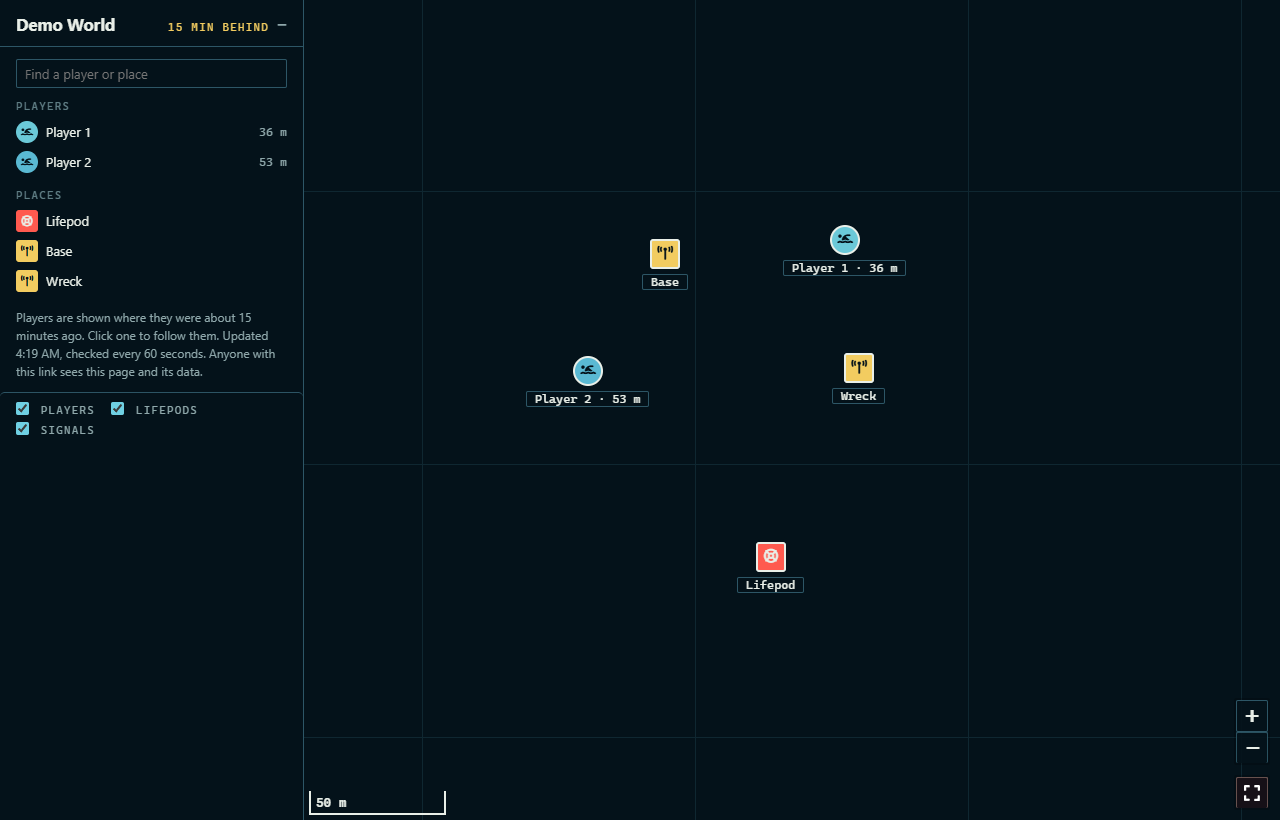
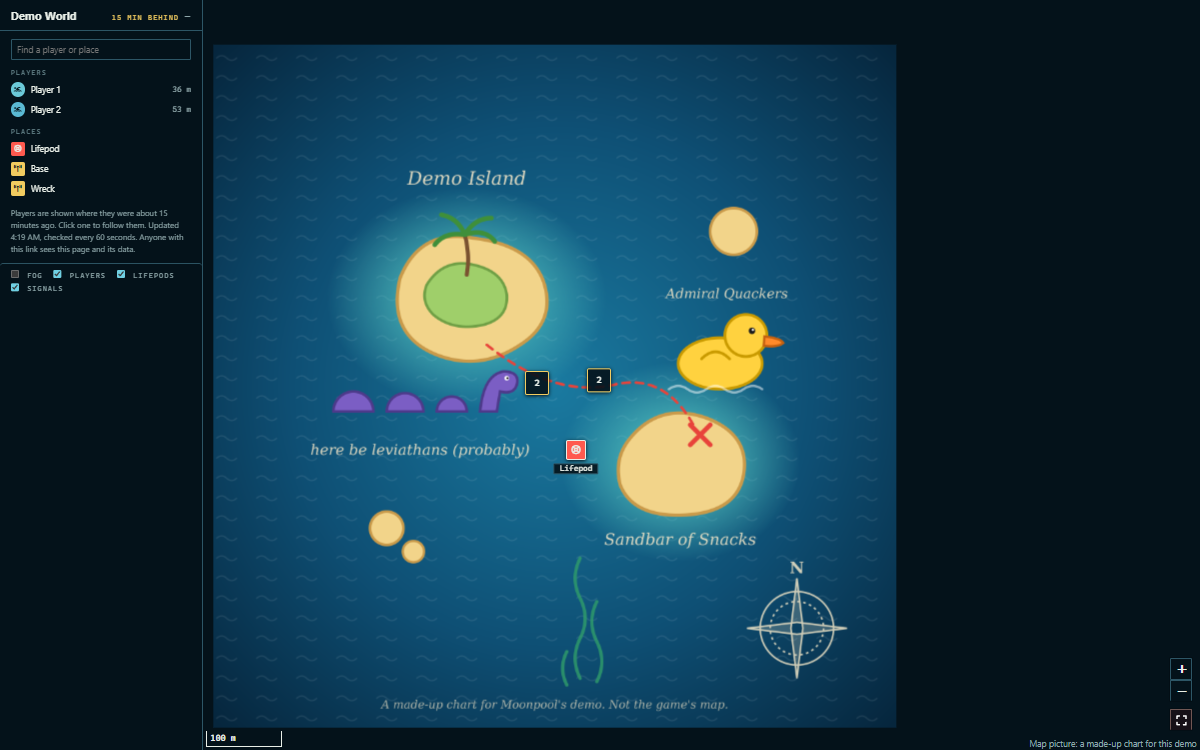
Discord card: Join and Map side by side; README pictures over a made-up chart

diff --git a/scripts/discord-notify.py b/scripts/discord-notify.py
@@ -421,12 +421,16 @@ def world_container():
     if isinstance(waiting, int) and waiting > 0:
         codes.append(T["friend_requests"].format(n=waiting))
 
-    head_component = {"type": 10, "content": clamp(head, 260)}
+    # Join and Map side by side under the title. Join stays clickable while the server is down or starting:
+    # the page it opens says so. The map picture below can't be clicked in Discord, so Map opens it.
+    buttons = []
     if join:
-        head_component = {"type": 9, "components": [head_component],
-                          "accessory": {"type": 2, "style": 5, "url": join,
-                                        "label": "Join" if kind == "up" else "Offline" if kind == "down" else "Not open" if kind == "waiting" else "Starting…"}}
-    components = [head_component, {"type": 14, "divider": True, "spacing": 1}, {"type": 10, "content": clamp(aboard, 400)}]
+        buttons.append({"type": 2, "style": 5, "url": join,
+                        "label": "Join" if kind == "up" else "Offline" if kind == "down" else "Not open" if kind == "waiting" else "Starting…"})
+    if map_url:
+        buttons.append({"type": 2, "style": 5, "label": "Map", "url": map_url})
+    components = [{"type": 10, "content": clamp(head, 260)}] + ([{"type": 1, "components": buttons}] if buttons else [])
+    components += [{"type": 14, "divider": True, "spacing": 1}, {"type": 10, "content": clamp(aboard, 400)}]
     if kind == "waiting" and GAME_AGE["s"]:
         components.append({"type": 10, "content": clamp(T["not_hosting"].format(min=GAME_AGE["s"] // 60), 400)})
         if loader_crashed():

diff --git a/README.md b/README.md
@@ -8,7 +8,7 @@ Unofficial. Not affiliated with Unknown Worlds, KRAFTON or Valve. No game files 
 
 ![The join page of a demo server: the branch and build, Play with mods, the server's mods with their summaries, and the live map beside them](docs/images/join-page.png)
 
-![The map page of the same demo, without a background picture: a 100 m grid, two players shown where they were 15 minutes ago, the lifepod and two PDA signals, and the panel listing them](docs/images/map.png)
+![The map page of the same demo over a made-up cartoon chart (islands, a rubber duck, a sea serpent), with the fog switched off: two players where they were 15 minutes ago, the lifepod and two PDA signals, and the panel listing them](docs/images/map.png)
 
 ## For your friends
 
@@ -99,7 +99,7 @@ Each release lists `moonpool-SHA256SUMS.txt`; compare `Get-FileHash moonpool-set
 - Admin from the shell (`bin/moonpool`) and in game (name a PDA signal `!help`)
 - One-command restore from backups
 - A Discord card with who's on and a Join button
-- An optional map of where everyone was a few minutes ago
+- An optional map of where everyone was a few minutes ago, over a map picture you choose ([guide](docs/operating.md#map))
 - An idle mode (friends preset): the clock stops and the frame rate drops while nobody is on
 - Your own wording for the join page, map page and card
 

diff --git a/docs/operating.md b/docs/operating.md
@@ -361,7 +361,7 @@ For mentions on important alerts, set `DISCORD_ALERT_ROLE_ID` to an opt-in role'
 
 ## Map
 
-`WEB_MAP=true` adds `/map` and puts the live map on the join page, so the card's Join button opens both. The button stays clickable while the server is down or starting; the page then says so. Anyone with the link can fetch `map.json`, which holds everything the page draws, fogged or not.
+`WEB_MAP=true` adds `/map`, puts the live map on the join page and adds a Map button beside Join on the card. Join stays clickable while the server is down or starting; the page then says so. Anyone with the link can fetch `map.json`, which holds everything the page draws, fogged or not.
 
 | Shows | Leaves out |
 |---|---|
